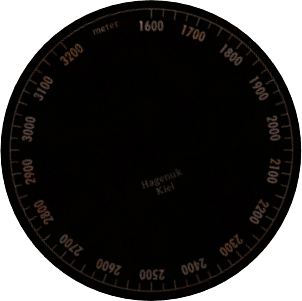
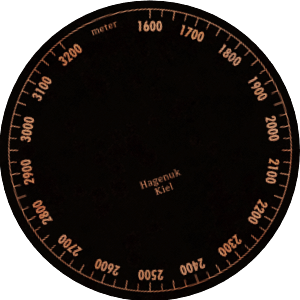
new turning dials for torpedo setup screen
git-svn-id: http://svn.code.sf.net/p/dangerdeep/code/trunk@1101 68f6b752-3551-0410-8fee-d3b2b286690f

Changed region(s): [[0.0, 0.0, 1.0, 1.0], [0.45, 0.57, 0.6, 0.66]]

diff --git a/dangerdeep/src/sub_torpsetup_display.cpp b/dangerdeep/src/sub_torpsetup_display.cpp
@@ -45,8 +45,8 @@ sub_torpsetup_display::sub_torpsetup_display(user_interface& ui_)
 	redlight.torpspeeddial.set("torpsetup_redlight_torpspeed.png", 541, 77, 636, 172); 
 	daylight.turnangledial.set("torpsetup_daylight_turnangle.png", 469, 508, 619, 658);
 	redlight.turnangledial.set("torpsetup_redlight_turnangle.png", 469, 508, 619, 658);
-	daylight.primaryrangedial.set("torpsetup_daylight_primaryrunlength.png", 230, 507, 381, 658);
-	redlight.primaryrangedial.set("torpsetup_redlight_primaryrunlength.png", 230, 507, 381, 658);
+	daylight.primaryrangedial.set("torpsetup_daylight_primaryrunlength.png", 231, 508, 381, 658);
+	redlight.primaryrangedial.set("torpsetup_redlight_primaryrunlength.png", 231, 508, 381, 658);
 	daylight.torpspeed[0].reset(new texture(get_image_dir() + "torpsetup_daylight_speedslow.png"));
 	redlight.torpspeed[0].reset(new texture(get_image_dir() + "torpsetup_redlight_speedslow.png"));
 	daylight.torpspeed[1].reset(new texture(get_image_dir() + "torpsetup_daylight_speedmedium.png"));
